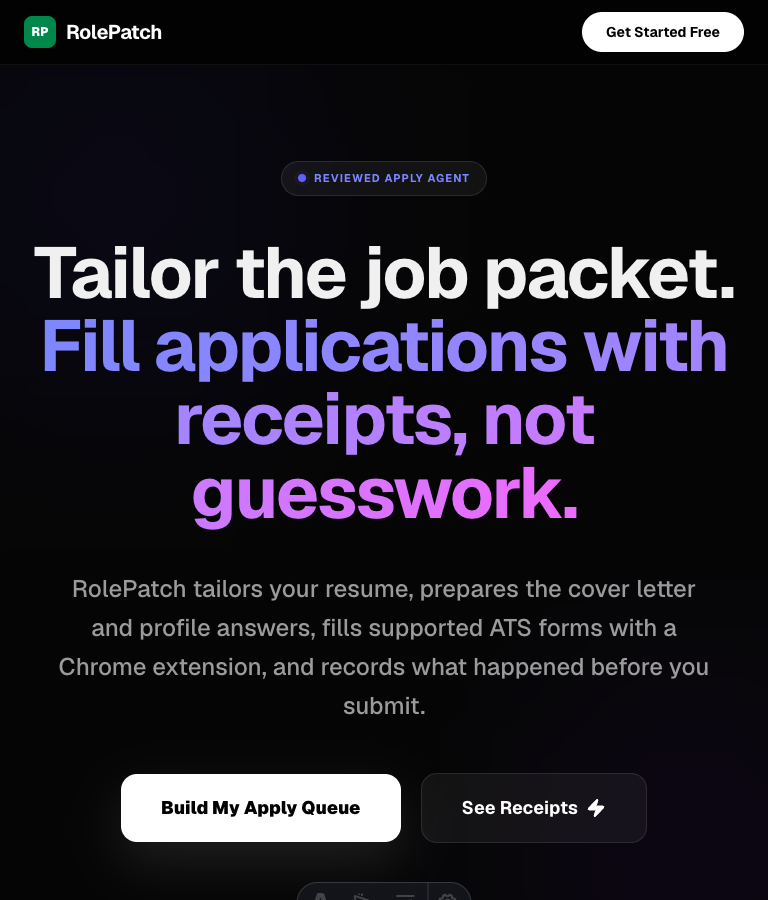
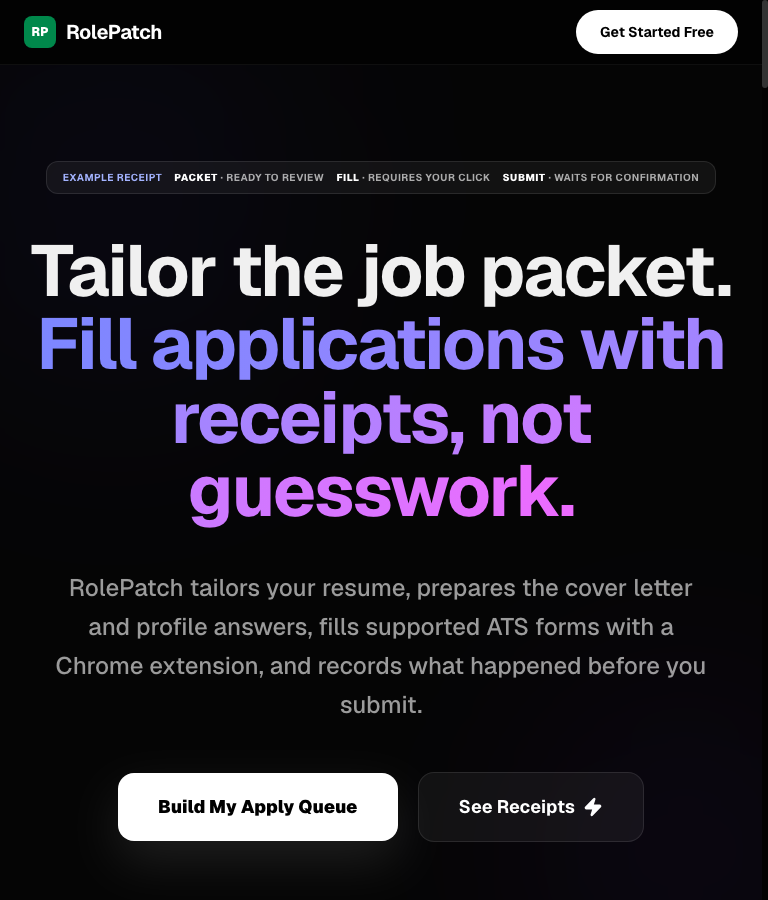
Clarify receipt-first landing proof (#32)

diff --git a/landing-astro/src/styles/global.css b/landing-astro/src/styles/global.css
@@ -61,6 +61,24 @@ body {
   -webkit-font-smoothing: antialiased;
 }
 
+:where(a, button, summary, [tabindex]):focus-visible {
+  outline: 2px solid var(--ring);
+  outline-offset: 3px;
+}
+
+@media (prefers-reduced-motion: reduce) {
+  .landing-page .animate-pulse,
+  .landing-page .animate-ping {
+    animation: none;
+  }
+
+  .landing-page [class*="hover:scale"]:hover,
+  .landing-page [class*="hover:translate"]:hover,
+  .landing-page .group:hover [class*="group-hover:scale"] {
+    transform: none;
+  }
+}
+
 /* Scrollbar styling */
 ::-webkit-scrollbar {
   width: 6px;

diff --git a/PROJECT_STATUS.md b/PROJECT_STATUS.md
@@ -63,11 +63,11 @@ SHA-tagged `workflow_dispatch`.
 
 ## Timeline
 
-- **2026-07-31 — Free ATS checker intent page:** clarified the checker as a
-  private, no-sign-up seven-signal structure pass; documented its scoring,
-  relationship to keyword matching, workflow, and limitations; and synchronized
-  the agent-readable public catalog without changing its local analysis logic.
-
+- **2026-07-31 — Receipt-first landing evidence clarified:** The Astro hero now
+  shows a truthful illustrative packet/fill/submit receipt rail, routes its
+  receipt CTA to the matching section, exposes visible keyboard focus, honors
+  reduced motion, and keeps header targets at least 44px without overflow at
+  390px, 768px, or 1440px.
 - **2026-07-29 — First-party changelog shipped:** The Astro public surface now
   owns a same-origin `/changelog` with verified editorial release entries,
   while Roadmap and Source link to the canonical GitHub issues and repository.
